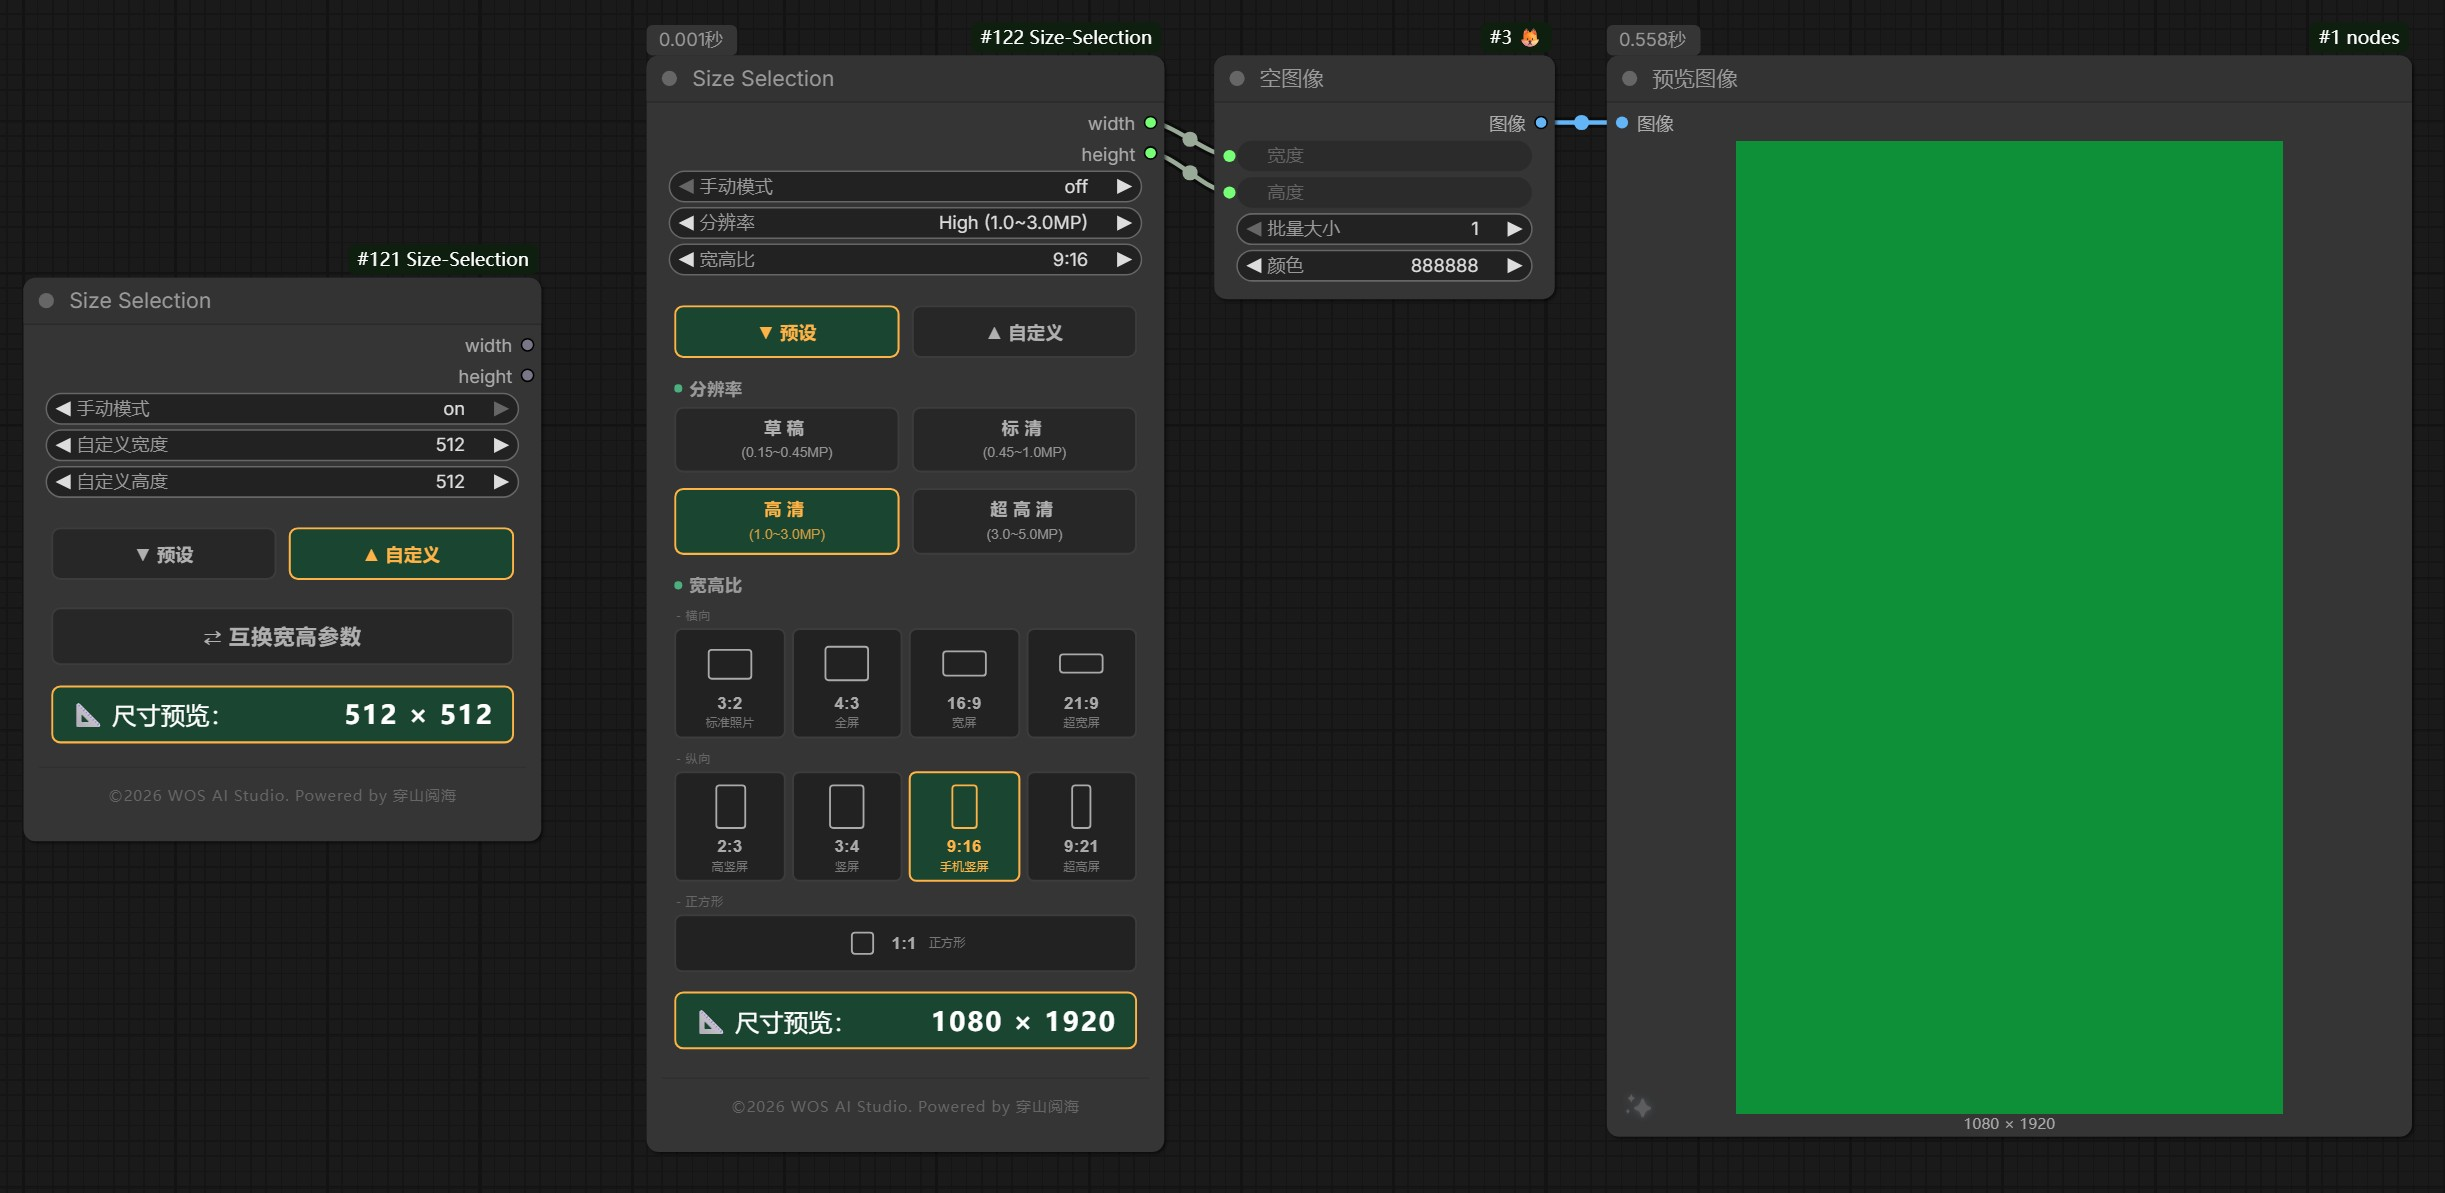
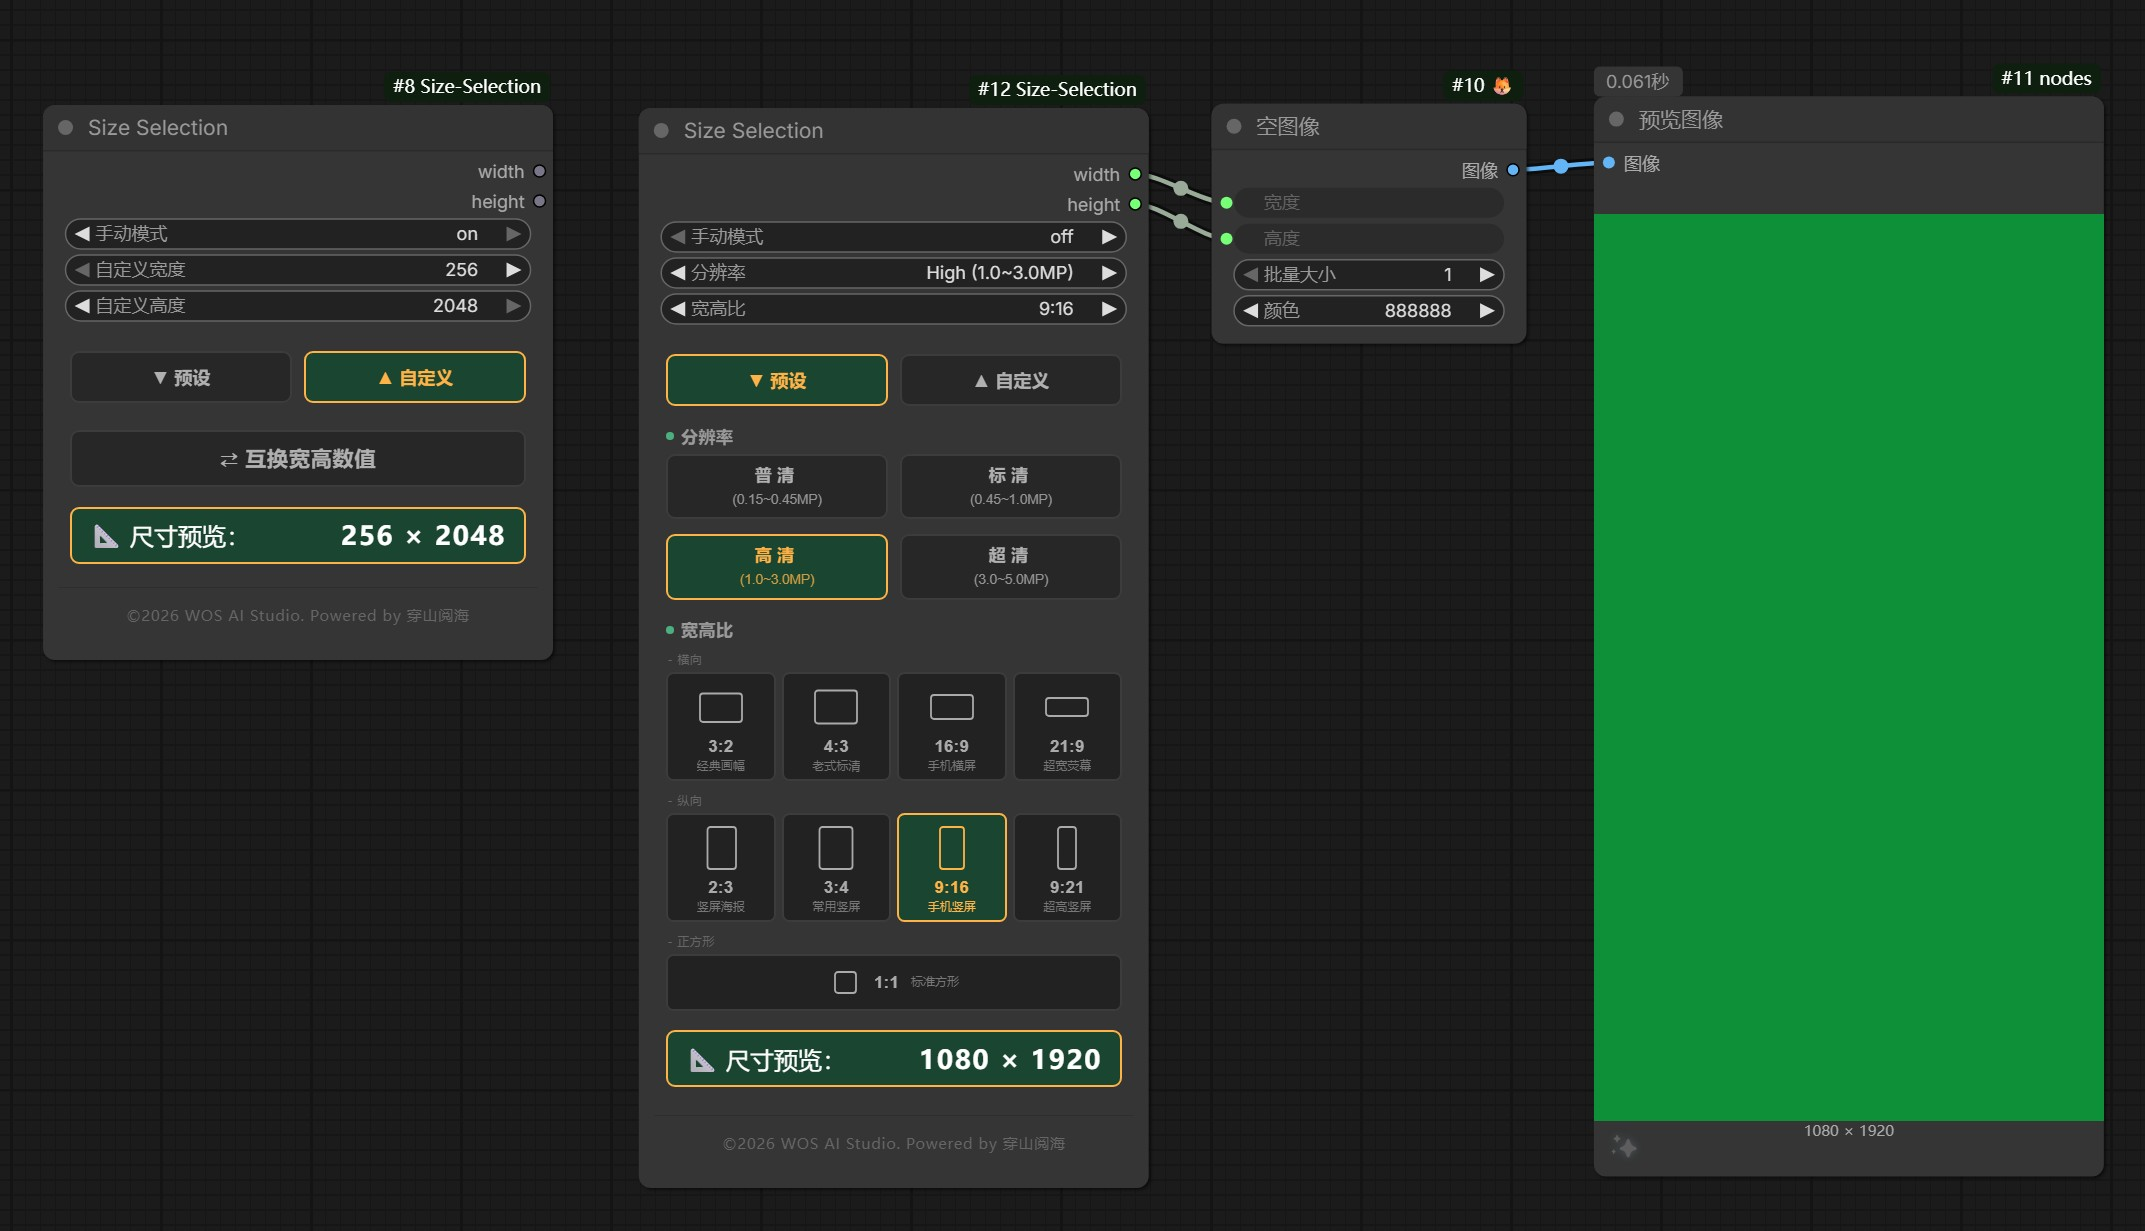
优化：修复节点显示错位问题 更新：节点预览图片与示例工作流

diff --git a/web/size_selection.js b/web/size_selection.js
@@ -28,23 +28,23 @@ const RESOLUTION_DATA = {
 // ── 分辨率按钮中文显示标签（两行：档位名 + 像素量范围）──────────────────────
 // 注：数据 key 保持英文以匹配后端，仅 label 做中文化
 const RESOLUTION_LABELS = {
-    "Draft (0.15~0.45MP)":   "草稿 (0.15~0.45MP)",
+    "Draft (0.15~0.45MP)": "普清 (0.15~0.45MP)",
     "Standard (0.45~1.0MP)": "标清 (0.45~1.0MP)",
-    "High (1.0~3.0MP)":      "高清 (1.0~3.0MP)",
-    "Ultra (3.0~5.0MP)":     "超高清 (3.0~5.0MP)",
+    "High (1.0~3.0MP)":"高清 (1.0~3.0MP)",
+    "Ultra (3.0~5.0MP)": "超清 (3.0~5.0MP)",
 };
 
 // ── 宽高比中文显示标签 ────────────────────────────────────────────────────────
 const ASPECT_RATIO_LABELS = {
-    "21:9":  "21:9 超宽屏",
-    "16:9":  "16:9 宽屏",
-    "3:2":   "3:2 标准照片",
-    "4:3":   "4:3 全屏",
-    "1:1":   "1:1 正方形",
-    "3:4":   "3:4 竖屏",
-    "2:3":   "2:3 高竖屏",
+    "21:9":  "21:9 超宽荧幕",
+    "16:9":  "16:9 手机横屏",
+    "3:2":   "3:2 经典画幅",
+    "4:3":   "4:3 老式标清",
+    "1:1":   "1:1 标准方形",
+    "3:4":   "3:4 常用竖屏",
+    "2:3":   "2:3 竖屏海报",
     "9:16":  "9:16 手机竖屏",
-    "9:21":  "9:21 超高屏",
+    "9:21":  "9:21 超高竖屏",
 };
 
 // ── 宽高比分组（Landscape=横向 / Portrait=纵向 / Square=正方形）───────────────
@@ -219,6 +219,33 @@ function buildUI(node) {
         clearTimeout(_vueMinWidthTimeout);
         _ac.abort();           // 一次性中止所有通过 _ac.signal 注册的 DOM 监听
         _origOnRemoved?.();    // 调用原始 onRemoved（如有）
+    };
+
+    // ── 加载兼容：提前预隐藏原生 widget，避免轮询延迟期间引起错位 ─────────────────
+    // 问题根因：waitForWidgets 异步触发，但 ComfyUI 从 JSON 载入时是同步的。
+    // 在轮询完成之前，所有原生 widget（manW/resW/aspW 等）均处于可见状态，
+    // 撑开节点高度导致 DOM 面板尚未挂载时出现布局错位。
+    // 解决方案：立即将原生 widget 折叠为零高度（保留在数组中，
+    // 确保 configure() 仍能按索引正确赋值），等待轮询完成后由 applyMode 按需恢复显示。
+    if (node.widgets) {
+        for (const w of node.widgets) {
+            if (w.name === "Manual_Mode") continue; // manW 由 applyMode 管理，始终保持可见
+            w.hidden = true;
+            w.computeSize = () => [0, -4];
+        }
+    }
+
+    // 拦截 onConfigure：工作流载入时，ComfyUI 会先通过 configure() 把 JSON 中保存的
+    // node.size 写回节点，再调用 onConfigure 钩子。
+    // 此处在钩子中立即根据已恢复的 Manual_Mode 值修正节点高度，
+    // 防止保存值与 getFixedHeight() 不一致导致的画布错位跳动。
+    const _origOnConfigure = node.onConfigure;
+    node.onConfigure = function (info) {
+        _origOnConfigure?.apply(this, arguments);
+        if (Array.isArray(info?.widgets_values) && info.widgets_values.length > 0) {
+            const isMan = info.widgets_values[0] === "on";
+            node.size[1] = getFixedHeight(isMan);
+        }
     };
 
     // 等待三个核心 widget 就绪后初始化 UI
@@ -423,7 +450,7 @@ function buildUI(node) {
         // 互换宽高按钮
         const swapBtn = document.createElement("button");
         swapBtn.className = "ss-swap-btn";
-        swapBtn.textContent = "⇄ 互换宽高参数";
+        swapBtn.textContent = "⇄ 互换宽高数值";
         swapBtn.onclick = () => {
             [baseWidth, baseHeight] = [baseHeight, baseWidth];
             updateWidgetValue(cusW, baseWidth);
